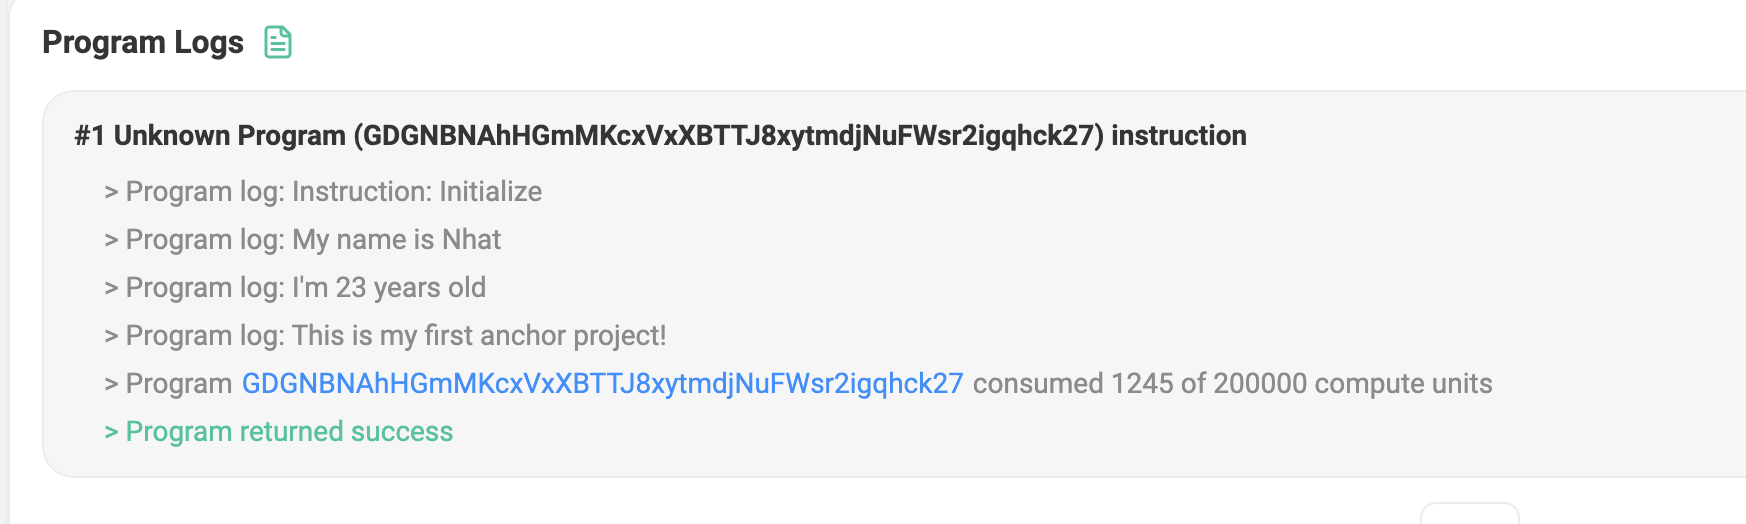
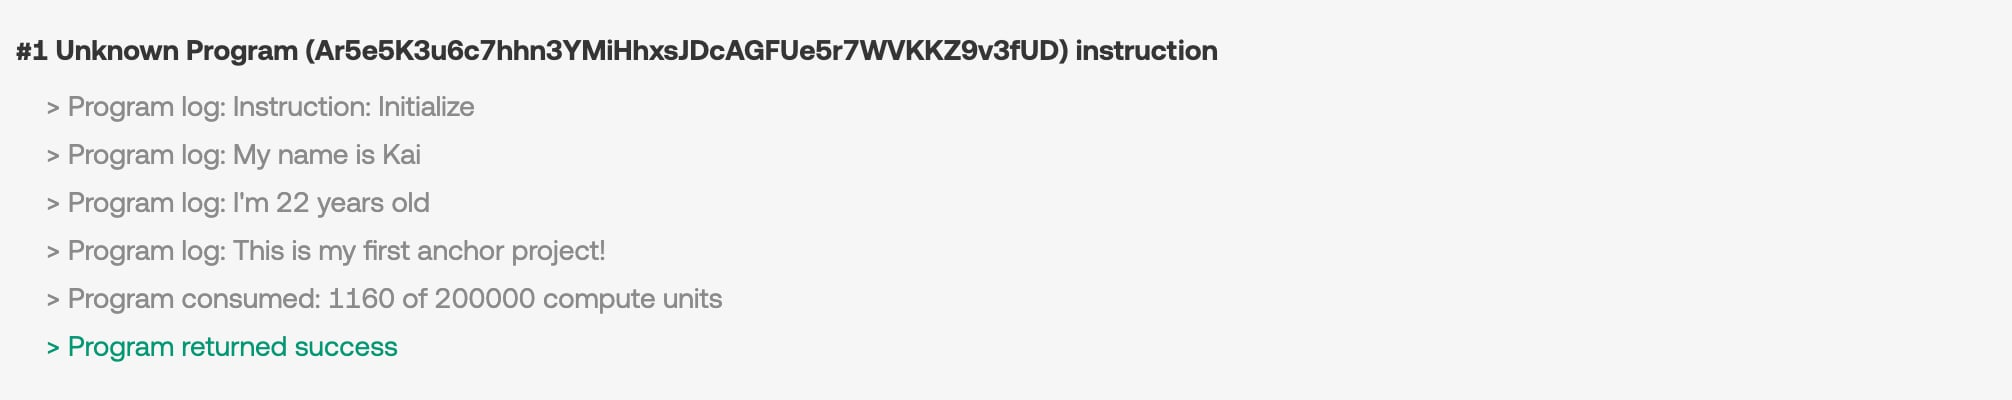
change image, program id and fix some errors

diff --git a/02 - Deploy-Test-Upgrade-Close/my-first-anchor-project/tests/my-first-anchor-project.ts b/02 - Deploy-Test-Upgrade-Close/my-first-anchor-project/tests/my-first-anchor-project.ts
@@ -1,13 +1,15 @@
 import * as anchor from "@coral-xyz/anchor";
 import { Program } from "@coral-xyz/anchor";
 import { MyFirstAnchorProject } from "../target/types/my_first_anchor_project";
+import { log } from "node:console";
 
 describe("my-first-anchor-project", () => {
   // Configure the client to use the local cluster.
   anchor.setProvider(anchor.AnchorProvider.env());
 
   const program = anchor.workspace.MyFirstAnchorProject as Program<MyFirstAnchorProject>;
-
+  console.log(program);
+  
   it("Is initialized!", async () => {
     // Add your test here.
     const tx = await program.methods.initialize().rpc();

diff --git a/02 - Deploy-Test-Upgrade-Close/my-first-anchor-project/programs/my-first-anchor-project/src/lib.rs b/02 - Deploy-Test-Upgrade-Close/my-first-anchor-project/programs/my-first-anchor-project/src/lib.rs
@@ -1,6 +1,6 @@
 use anchor_lang::prelude::*;
 
-declare_id!("EfBMUxsHSmhriWZfWNvLoqtsneUh1UFe9bmLmqB38taJ");
+declare_id!("Ar5e5K3u6c7hhn3YMiHhxsJDcAGFUe5r7WVKKZ9v3fUD");
 
 #[program]
 pub mod my_first_anchor_project {

diff --git a/02 - Deploy-Test-Upgrade-Close/README.md b/02 - Deploy-Test-Upgrade-Close/README.md
@@ -16,7 +16,7 @@ Sau khi dự án Anchor của bạn được khởi tạo, Anchor sẽ tạo ra 
 ```rust
 use anchor_lang::prelude::*;
 
-declare_id!("2VCJobu63BfwAz1YNFY76tjWCHJubQGa9Qysc5fQmPP8");
+declare_id!("F6N2DHUh9szawNRDSvC7VMqVCjLxTCJd2GDsf5vXjjZS");
 
 #[program]
 pub mod my_first_anchor_project {
@@ -33,7 +33,7 @@ pub struct Initialize {}
 
 Dòng đầu tiên bạn thấy là ID hay địa chỉ của smart contract:
 ```rust
-declare_id!("2VCJobu63BfwAz1YNFY76tjWCHJubQGa9Qysc5fQmPP8");
+declare_id!("F6N2DHUh9szawNRDSvC7VMqVCjLxTCJd2GDsf5vXjjZS");
 ```
 
 Đây là **program ID** (hay địa chỉ smart contract) sẽ được sử dụng sau khi triển khai. ID thực tế được xác định bởi cặp khóa (keypair) nằm tại:
@@ -97,7 +97,7 @@ solana program deploy target/deploy/my_first_anchor_project.so --program-id targ
 
 Bạn sẽ thấy kết quả tương tự như thế này:
 ```bash
-Program Id: 2VCJobu63BfwAz1YNFY76tjWCHJubQGa9Qysc5fQmPP8
+Program Id: F6N2DHUh9szawNRDSvC7VMqVCjLxTCJd2GDsf5vXjjZS
 ```
 
 🎉 **Chúc mừng!** Bạn đã deploy thành công smart contract đầu tiên của mình lên Devnet.
@@ -184,7 +184,7 @@ anchor run test
 Bạn sẽ thấy kết quả như thế này trong terminal của mình:
 ```bash
   my-first-anchor-project
-Your transaction signature 3iFa2ASp4mcivVr2RjiqvUeVDwe1vcasp31A9vxperVRvPttcod9DqLyaY8kWu5d5owS6QuoJw5zfFDpBvb1jFqU
+Your transaction signature 3zZYomyMUycq2ybS6ACPszaQ5kTP8ZGoqU6TCxssXc1cU8YfTMMyABnY4r5e5pyvpjwhixkwsUbMrDACGmqjekAJ
     ✔ Is initialized! (1362ms)
 
 
@@ -193,7 +193,7 @@ Your transaction signature 3iFa2ASp4mcivVr2RjiqvUeVDwe1vcasp31A9vxperVRvPttcod9D
 
 ✅ Chúc mừng! Bài kiểm tra của bạn đã vượt qua và smart contract của bạn đã được khởi tạo thành công.
 
-Bạn thậm chí có thể sao chép mã băm giao dịch và xem nó trên [Solscan](https://solscan.io/tx/3iFa2ASp4mcivVr2RjiqvUeVDwe1vcasp31A9vxperVRvPttcod9DqLyaY8kWu5d5owS6QuoJw5zfFDpBvb1jFqU?cluster=devnet) để thấy nó đang hoạt động.
+Bạn thậm chí có thể sao chép mã băm giao dịch và xem nó trên [Solscan](https://solscan.io/tx/3zZYomyMUycq2ybS6ACPszaQ5kTP8ZGoqU6TCxssXc1cU8YfTMMyABnY4r5e5pyvpjwhixkwsUbMrDACGmqjekAJ?cluster=devnet) để thấy nó đang hoạt động.
 
 ### 3. Nâng cấp
 
@@ -204,8 +204,8 @@ Hãy cùng tìm hiểu cách nâng cấp smart contract sau khi thay đổi mộ
 Trong hàm `initialize()` của bạn, hãy thêm một số bản ghi (logging) để xem cách `msg!()` hoạt động:
 ```rust
 pub fn initialize(ctx: Context<Initialize>) -> Result<()> {
-    let name = "Nhat";
-    let age = 23;
+    let name = "Kai";
+    let age = 22;
 
     msg!("My name is {}", name);
     msg!("I'm {} years old", age);
@@ -290,15 +290,14 @@ Nếu mọi thứ diễn ra suôn sẻ, smart contract của bạn bây giờ đ
 Bạn sẽ thấy kết quả tương tự như:
 ```bash
   my-first-anchor-project
-Your transaction signature hnN1ePkVLiKTQ1XT1NZbMyZZhzMnSEpUBiojSN2NVEDiUAdCQQkwbWDYDm74aWksUD7wMqo9EufFfwDw92PPenx
+Your transaction signature 3frEHEMbWFwvWmq8GgM1H9zvHiaRwPY1296GHCoKasYC1zzHfLbjfALDQVojdPGDBNESLNenemmh5EComAt97BvG
     ✔ Is initialized! (1525ms)
-
 
   1 passing (2s)
 ```
 
 Điều này xác nhận rằng quá trình nâng cấp của bạn đã thành công và mã mới, bao gồm cả hàm `initialize()` đã cập nhật của bạn, đang chạy bình thường.  
-Nếu bạn muốn xem lại kết quả nhật ký, bạn có thể kiểm tra giao dịch trên [Solscan](https://solscan.io/txhnN1ePkVLiKTQ1XT1NZbMyZZhzMnSEpUBiojSN2NVEDiUAdCQQkwbWDYDm74aWksUD7wMqo9EufFfwDw92PPenx?cluster=devnet)
+Nếu bạn muốn xem lại kết quả nhật ký, bạn có thể kiểm tra giao dịch trên [Solscan](https://solscan.io/3frEHEMbWFwvWmq8GgM1H9zvHiaRwPY1296GHCoKasYC1zzHfLbjfALDQVojdPGDBNESLNenemmh5EComAt97BvG?cluster=devnet)
 
 <img src="../Example Images/02-UpgradeProgramLog.png" alt="upgrade program log" width="1000" height="300">
 